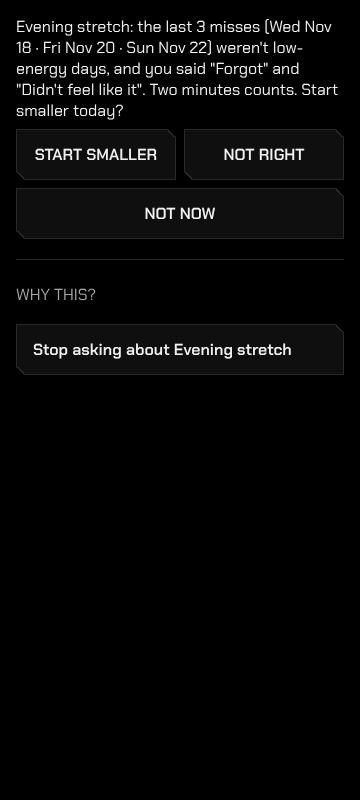
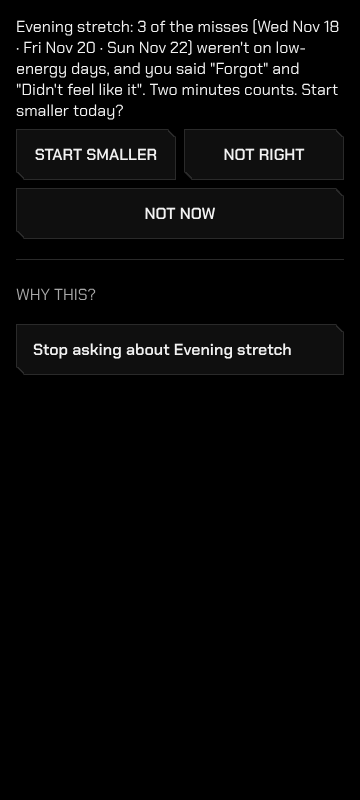
GRAYSON-CHALLENGE-LADDER-001: #708 review fixes (never say more than the evidence, never twice a day)
- NAME counts only the days he answered ("3 of the 4 days you answered it").
- CHALLENGE says "3 of the misses", never "the last 3"; after an answer it waits for a new forgot / didn't-feel
  miss, and only challenges with a new miss in between count toward EXAMINE.
- "Stop asking" quiets the whole ladder for the rest of that lived day; UNDO restores it.
- CHANGE THE PLAN restarts counting like NOT RIGHT and EXAMINE; EXAMINE says two quiet weeks, not "stop asking".
- The answer note frees its quiet-line slot after 8 s; history copy for challenge answers; 320/360/412 px checks.
- Merged master (WORK_DUE quiet line and work-record settings beside the ladder).

Claude-Session: https://claude.ai/code/session_01UR9w2nuSV6oWAKV5Wc8D8r

Changed region(s): [[0.0306, 0.0, 0.9472, 0.0938]]

diff --git a/src/domain/habitLadder.ts b/src/domain/habitLadder.ts
@@ -66,9 +66,10 @@ const isReason = (a: LadderAnswerValue): a is LadderReason => (LADDER_REASONS as
 export function deriveHabitLadder(habit: LadderHabit, answers: readonly LadderAnswer[], today: string): LadderLine | null {
   const mine = answers.filter((a) => a.habitId === habit.id);
   const recent = (days: number) => mine.filter((a) => within(a.date, today, days));
-  // NOT RIGHT goes back to the first step and is quiet for 14 days. So is a finished EXAMINE, and CHANGE THE PLAN.
+  // NOT RIGHT goes back to the first step and is quiet for 14 days. So is a finished EXAMINE, and CHANGE THE PLAN; all
+  // three restart the counting, so misses under the old plan never carry over.
   if (recent(LADDER.QUIET_DAYS).some((a) => a.answer === "NOT_RIGHT" || a.stage === "EXAMINE" || a.answer === "CHANGE_PLAN")) return null;
-  const since = [...mine].filter((a) => a.answer === "NOT_RIGHT" || a.stage === "EXAMINE").map((a) => a.date).sort().at(-1);
+  const since = [...mine].filter((a) => a.answer === "NOT_RIGHT" || a.answer === "CHANGE_PLAN" || a.stage === "EXAMINE").map((a) => a.date).sort().at(-1);
   const counted = (d: LadderDay) => within(d.date, today, LADDER.WINDOW_DAYS) && (!since || d.date > since);
   const misses = habit.history.filter((d) => d.applies && d.answer === "NOT_DONE" && counted(d)).map((d) => d.date).sort();
   if (!misses.length) return null;
@@ -78,17 +79,20 @@ export function deriveHabitLadder(habit: LadderHabit, answers: readonly LadderAn
   const explained = misses.filter((m) => reasonOf.has(m));
   const answeredSince = (stage: LadderStage) => mine.filter((a) => a.stage === stage && (!since || a.date > since) && within(a.date, today, LADDER.WINDOW_DAYS));
   const named = answeredSince("NAME").filter((a) => a.answer === "RIGHT");
-  const challenges = answeredSince("CHALLENGE").filter((a) => a.answer !== "LATER");
+  const challenges = answeredSince("CHALLENGE").filter((a) => a.answer !== "LATER").map((a) => a.date).sort();
   const name = habit.name;
   const evidence = { label: "Misses", value: misses.map(weekday).join(" · ") };
   const why = (rule: string, extra: { label: string; value: string }[] = []): WhyTrace => ({ rule, facts: [{ label: "Habit", value: name }, evidence, ...extra] });
   const base = { habitId: habit.id, habitName: name, misses };
 
-  // 4. EXAMINE: enough misses, or a challenge twice without change. Delta stops asking.
-  if (misses.length >= LADDER.EXAMINE_MISSES || challenges.length >= LADDER.EXAMINE_AFTER_CHALLENGES) {
+  // #708 review: a challenge answer counts toward EXAMINE only when a new miss came after the one before it, so
+  // agreeing twice to the same evidence never escalates.
+  const challengesWithNewMisses = challenges.filter((c, i) => i === 0 || misses.some((m) => m > challenges[i - 1]! && m <= c)).length;
+  // 4. EXAMINE: enough misses, or a challenge answered twice with new misses in between.
+  if (misses.length >= LADDER.EXAMINE_MISSES || challengesWithNewMisses >= LADDER.EXAMINE_AFTER_CHALLENGES) {
     return { ...base, stage: "EXAMINE",
-      text: `${name} didn't happen ${misses.length} times in 4 weeks. That points to the plan. Change the days, make it smaller, pause it, or keep it as it is. Delta will stop asking about it either way.`,
-      why: why(`${LADDER.EXAMINE_MISSES} or more misses in ${LADDER.WINDOW_DAYS} days, or a challenge answered twice: examine the plan, then stop asking.`) };
+      text: `${name} didn't happen ${misses.length} times in 4 weeks. That points to the plan. Change the days, make it smaller, pause it, or keep it as it is. Delta won't ask about it for two weeks either way.`,
+      why: why(`${LADDER.EXAMINE_MISSES} or more misses in ${LADDER.WINDOW_DAYS} days, or a challenge answered twice: examine the plan, then two quiet weeks.`) };
   }
   const due = habit.history.filter((d) => d.applies && d.answer !== "UNRECORDED" && counted(d)).length;
   const counts = new Map<LadderReason, number>();
@@ -100,11 +104,14 @@ export function deriveHabitLadder(habit: LadderHabit, answers: readonly LadderAn
   // feeling like it on days that weren't low-capacity. Never for shift, tiredness or the plan.
   const avoided = explained.filter((m) => AVOIDANCE.has(reasonOf.get(m)!) && !missDay.get(m)?.lowCapacity);
   const constrained = explained.length - avoided.length;
-  if (named.length && avoided.length >= LADDER.CHALLENGE_AVOIDANCE && avoided.length > constrained) {
+  // #708 review: after he answers a challenge, it waits for a new forgot / didn't-feel miss before it can show again.
+  const lastChallenge = challenges.at(-1);
+  const fresh = !lastChallenge || avoided.some((m) => m > lastChallenge);
+  if (named.length && fresh && avoided.length >= LADDER.CHALLENGE_AVOIDANCE && avoided.length > constrained) {
     const last = avoided.slice(-3);
     const said = [...new Set(last.map((m) => `"${LADDER_REASON_LABEL[reasonOf.get(m)!]}"`))].join(" and ");
     return { ...base, stage: "CHALLENGE",
-      text: `${name}: the last ${last.length} misses (${last.map(weekday).join(" · ")}) weren't low-energy days, and you said ${said}. Two minutes counts. Start smaller today?`,
+      text: `${name}: ${last.length} of the misses (${last.map(weekday).join(" · ")}) weren't on low-energy days, and you said ${said}. Two minutes counts. Start smaller today?`,
       why: why(`You agreed with the pattern, and ${LADDER.CHALLENGE_AVOIDANCE} or more misses were "forgot" or "didn't feel like it" on days that weren't low-energy. Never used for shift, tiredness or the plan.`, reasonFacts) };
   }
   // 2. NAME: three misses and two answers. Asked once; RIGHT keeps it, CHANGE THE PLAN and NOT RIGHT quiet it.
@@ -112,7 +119,7 @@ export function deriveHabitLadder(habit: LadderHabit, answers: readonly LadderAn
     const work = misses.filter((m) => missDay.get(m)?.work === "WORK").length;
     const where = work >= 2 && work === misses.length ? ` All ${work} were work days.` : work >= 2 ? ` ${work} were work days.` : "";
     return { ...base, stage: "NAME",
-      text: `${name} didn't happen ${misses.length} of the last ${due} days it was due.${where} Your answers point to: ${LADDER_PATTERN[top[0]]}.`,
+      text: `${name} didn't happen ${misses.length} of the ${due} days you answered it.${where} Your answers point to: ${LADDER_PATTERN[top[0]]}.`,
       why: why(`${LADDER.NAME_MISSES} or more misses in ${LADDER.WINDOW_DAYS} days, with ${LADDER.NAME_ANSWERS} or more of your answers. Named from what you said.`, reasonFacts) };
   }
   // 1. ASK: two misses in 14 days; asks about the latest one he hasn't explained, only if it's recent.

diff --git a/tests/habitLadder.test.ts b/tests/habitLadder.test.ts
@@ -68,17 +68,25 @@ describe("EXAMINE and quiet", () => {
   it("six misses in 28 days examines the plan", () => {
     const line = deriveHabitLadder(habit([20, 16, 12, 9, 5, 2]), [], TODAY)!;
     expect(line.stage).toBe("EXAMINE");
-    expect(line.text).toContain("Delta will stop asking about it either way.");
+    expect(line.text).toContain("Delta won't ask about it for two weeks either way.");
   });
-  it("a challenge answered twice examines the plan", () => {
-    const answers = [ask(9, "FORGOT"), ask(7, "DIDNT_FEEL"), ask(5, "FORGOT"), reply("NAME", "RIGHT", 5), reply("CHALLENGE", "START_SMALLER", 4), reply("CHALLENGE", "START_SMALLER", 3)];
-    expect(deriveHabitLadder(habit([9, 7, 5]), answers, TODAY)!.stage).toBe("EXAMINE");
+  it("a challenge answered twice, with a new miss in between, examines the plan", () => {
+    const answers = [ask(9, "FORGOT"), ask(7, "DIDNT_FEEL"), ask(5, "FORGOT"), reply("NAME", "RIGHT", 5), reply("CHALLENGE", "START_SMALLER", 4), ask(3, "FORGOT"), reply("CHALLENGE", "START_SMALLER", 2)];
+    expect(deriveHabitLadder(habit([9, 7, 5, 3]), answers, TODAY)!.stage).toBe("EXAMINE");
+  });
+  it("#708 review: after START SMALLER the challenge waits for a new forgot / didn't-feel miss, and never escalates on the same evidence", () => {
+    const base = [ask(9, "FORGOT"), ask(7, "DIDNT_FEEL"), ask(5, "FORGOT"), reply("NAME", "RIGHT", 5), reply("CHALLENGE", "START_SMALLER", 4)];
+    expect(deriveHabitLadder(habit([9, 7, 5]), base, TODAY)).toBeNull();
+    expect(deriveHabitLadder(habit([9, 7, 5, 2]), [...base, ask(2, "SHIFT")], TODAY)).toBeNull(); // a shift miss isn't one
+    expect(deriveHabitLadder(habit([9, 7, 5, 2]), [...base, ask(2, "FORGOT")], TODAY)!.stage).toBe("CHALLENGE");
   });
   it("after EXAMINE, NOT RIGHT or CHANGE THE PLAN: quiet 14 days, then counting starts fresh", () => {
     const many = habit([20, 18, 16, 15, 13, 2]);
     expect(deriveHabitLadder(many, [reply("EXAMINE", "KEEP", 10)], TODAY)).toBeNull();
     expect(deriveHabitLadder(habit([5, 2]), [reply("NAME", "NOT_RIGHT", 3)], TODAY)).toBeNull();
     expect(deriveHabitLadder(habit([5, 2]), [reply("NAME", "CHANGE_PLAN", 3)], TODAY)).toBeNull();
+    // #708 review: CHANGE THE PLAN restarts the counting too, so old-plan misses never carry over into EXAMINE.
+    expect(deriveHabitLadder(habit([25, 23, 21, 19, 17, 5, 2]), [reply("NAME", "CHANGE_PLAN", 16)], TODAY)!.stage).toBe("ASK");
     // 15 days after EXAMINE, only misses since then count: two recent misses means ASK, not EXAMINE again.
     expect(deriveHabitLadder(habit([25, 23, 21, 19, 17, 5, 2]), [reply("EXAMINE", "KEEP", 16)], TODAY)!.stage).toBe("ASK");
   });
@@ -95,5 +103,21 @@ describe("one line a day", () => {
   it("is deterministic", () => {
     const input = { habits: two, answers: [], today: TODAY, todayLowCapacity: false, off: new Set<string>() };
     expect(deriveLadderLine(input)).toEqual(deriveLadderLine(input));
+  });
+});
+
+describe("#708 review: lines never say more than the evidence", () => {
+  it("NAME counts only the days he answered, and says so", () => {
+    const unanswered = Array.from({ length: 28 }, (_, i) => i).filter((b) => ![9, 7, 5, 3].includes(b));
+    const line = deriveHabitLadder(habit([9, 7, 5], { unanswered }), [ask(9, "PLAN"), ask(7, "PLAN")], TODAY)!;
+    expect(line.stage).toBe("NAME");
+    expect(line.text).toContain("didn't happen 3 of the 4 days you answered it.");
+  });
+  it("CHALLENGE never calls them 'the last' misses when another miss sits between", () => {
+    const answers = [ask(10, "FORGOT"), ask(8, "FORGOT"), ask(6, "SHIFT"), ask(4, "FORGOT"), reply("NAME", "RIGHT", 4)];
+    const line = deriveHabitLadder(habit([10, 8, 6, 4]), answers, TODAY)!;
+    expect(line.stage).toBe("CHALLENGE");
+    expect(line.text).toContain("3 of the misses (");
+    expect(line.text).not.toMatch(/the last \d+ misses/);
   });
 });

diff --git a/src/application/habitLadder.ts b/src/application/habitLadder.ts
@@ -33,16 +33,36 @@ export async function getLadderAnswers(): Promise<LadderAnswer[]> {
 
 /** "Stop asking about this habit": per habit, on this phone, travels with the backup. Turning the line off for all is TODAY's quiet-line switch. */
 export const HABIT_LADDER_KEY = "beyond.habitLadder.v1";
-export function readLadderOff(): Set<string> {
+interface LadderStore { off: Set<string>; quietDate: string | null }
+function readStore(): LadderStore {
   try {
-    const raw = JSON.parse(localStorage.getItem(HABIT_LADDER_KEY) ?? "null") as { off?: unknown } | null;
-    return new Set(Array.isArray(raw?.off) ? raw.off.filter((id): id is string => typeof id === "string") : []);
-  } catch { return new Set(); }
+    const raw = JSON.parse(localStorage.getItem(HABIT_LADDER_KEY) ?? "null") as { off?: unknown; quietDate?: unknown } | null;
+    return {
+      off: new Set(Array.isArray(raw?.off) ? raw.off.filter((id): id is string => typeof id === "string") : []),
+      quietDate: typeof raw?.quietDate === "string" && /^\d{4}-\d{2}-\d{2}$/.test(raw.quietDate) ? raw.quietDate : null,
+    };
+  } catch { return { off: new Set(), quietDate: null }; }
 }
+function writeStore(store: LadderStore): void {
+  localStorage.setItem(HABIT_LADDER_KEY, JSON.stringify({ off: [...store.off].sort(), ...(store.quietDate ? { quietDate: store.quietDate } : {}) }));
+}
+export function readLadderOff(): Set<string> { return readStore().off; }
+/** Settings' ASK AGAIN (and tests): turns one habit back on. */
 export function setLadderHabitOff(habitId: string, off: boolean): void {
-  const next = readLadderOff();
-  if (off) next.add(habitId); else next.delete(habitId);
-  localStorage.setItem(HABIT_LADDER_KEY, JSON.stringify({ off: [...next].sort() }));
+  const store = readStore();
+  if (off) store.off.add(habitId); else store.off.delete(habitId);
+  writeStore(store);
+}
+/**
+ * "Stop asking about <habit>" on TODAY: that habit is off, and (#708 review) no other habit's line shows for the rest
+ * of this lived day, because he has just said stop. UNDO (`askAgainAbout`) turns both back.
+ */
+export async function stopAskingAbout(habitId: string, now = new Date()): Promise<void> {
+  const date = (await getHabitWorkspace(now)).date;
+  const store = readStore(); store.off.add(habitId); store.quietDate = date; writeStore(store);
+}
+export function askAgainAbout(habitId: string): void {
+  const store = readStore(); store.off.delete(habitId); store.quietDate = null; writeStore(store);
 }
 
 /** Low capacity for a lived day: his last check-in that day put energy at 2 or below, or the day's guidance was to recover. */
@@ -50,7 +70,7 @@ const LOW_KINDS = new Set(["RECOVER", "STABILIZE"]);
 
 export async function getHabitLadderLine(now = new Date()): Promise<LadderLine | null> {
   const workspace = await getHabitWorkspace(now);
-  if (!workspace.habits.length) return null;
+  if (!workspace.habits.length || readStore().quietDate === workspace.date) return null;
   const dayIds = [...new Set(workspace.habits.flatMap((h) => h.history.flatMap((d) => d.dayId ? [d.dayId] : [])))];
   const [checkIns, recommendations, answers] = await Promise.all([
     getEffectiveCheckIns(dayIds), db.recommendations.where("beyondDayId").anyOf(dayIds).toArray(), getLadderAnswers(),

diff --git a/tests/browser/HabitLadder.test.tsx b/tests/browser/HabitLadder.test.tsx
@@ -5,7 +5,7 @@ import axe from "axe-core";
 import { HabitLadderLine } from "../../src/ui/screens/today/HabitLadderLine";
 import { TodayQuietSettings } from "../../src/ui/screens/more/TodayQuietSettings";
 import { createHabit, setHabitAnswer } from "../../src/application/habitCommands";
-import { getLadderAnswers, readLadderOff } from "../../src/application/habitLadder";
+import { getLadderAnswers, getHabitLadderLine, readLadderOff } from "../../src/application/habitLadder";
 import { startDay, submitCheckIn } from "../../src/application/commands";
 import { mostRecentBoundaryAtOrBefore } from "../../src/engine/dayRollover";
 import { formatLocalDate } from "../../src/engine/scheduledContext";
@@ -39,8 +39,11 @@ it("ASK after two misses: one tap saves what got in the way, then the line is do
   const screen = await render(<HabitLadderLine now={new Date()} />);
   const line = screen.getByRole("region", { name: "Habit check-in" });
   await expect.element(line.getByText(/^Stretch didn't happen .+\. What got in the way\?$/)).toBeVisible();
-  fits(line.element());
-  expect((await axe.run(line.element())).violations).toEqual([]);
+  for (const width of [320, 360, 412]) {
+    await page.viewport(width, 800);
+    fits(line.element());
+    expect((await axe.run(line.element())).violations).toEqual([]);
+  }
   await line.getByRole("button", { name: "Forgot", exact: true }).click();
   await expect.element(screen.getByText("Saved. Delta won't ask again today.")).toBeVisible();
   expect(await getLadderAnswers()).toMatchObject([{ habitId: habit.id, stage: "ASK", answer: "FORGOT", missDate: formatLocalDate(dayBack(2)) }]);
@@ -93,4 +96,23 @@ it("on TODAY it is one of the quiet lines, and his TODAY switch turns it off for
   await new Promise((r) => setTimeout(r, 750)); // the line loads on its own; give it time to (not) appear
   expect(screen.getByRole("region", { name: "Habit check-in" }).elements()).toHaveLength(0);
   await expect.element(screen.getByRole("group", { name: "Quiet lines" })).toBeInTheDocument();
+});
+
+it("#708 review: after 'Stop asking' no other habit's line shows that day; UNDO brings the ladder back", async () => {
+  const a = await createHabit({ name: "Read", kind: "ANY_DAY" });
+  const b = await createHabit({ name: "Stretch", kind: "ANY_DAY" });
+  for (const k of [5, 4, 2]) {
+    const d = await startDay(dayBack(k).toISOString());
+    await setHabitAnswer(a.id, "NOT_DONE", d.id);
+    if (k !== 5) await setHabitAnswer(b.id, "NOT_DONE", d.id);
+  }
+  const today = await startDay(dayBack(0).toISOString());
+  await submitCheckIn(today.id, { energy: 4, stress: 2, mood: 3, soreness: 1, alcoholUrge: 0 });
+  const screen = await render(<HabitLadderLine now={new Date()} />);
+  await screen.getByRole("button", { name: "Stop asking about Read" }).click();
+  await expect.element(screen.getByText(/^Delta won't ask about Read\./)).toBeVisible();
+  expect(await getHabitLadderLine()).toBeNull(); // Stretch qualifies too, but not today
+  expect(screen.getByRole("button", { name: "Stop asking about Stretch" }).elements()).toHaveLength(0);
+  await screen.getByRole("button", { name: "UNDO" }).click();
+  await expect.poll(async () => (await getHabitLadderLine())?.habitId).toBe(a.id);
 });

diff --git a/src/ui/screens/today/HabitLadderLine.tsx b/src/ui/screens/today/HabitLadderLine.tsx
@@ -2,7 +2,7 @@ import { useEffect, useRef, useState } from "react";
 import { useReportPresence } from "../../components/usePresence";
 import { WhyTraceDisclosure } from "../../components/WhyTrace";
 import { describeError } from "../../errorMessage";
-import { answerLadder, getHabitLadderLine, setLadderHabitOff } from "../../../application/habitLadder";
+import { answerLadder, askAgainAbout, getHabitLadderLine, stopAskingAbout } from "../../../application/habitLadder";
 import { LADDER_REASONS, LADDER_REASON_LABEL, type LadderAnswerValue, type LadderLine } from "../../../domain/habitLadder";
 import "./habitLadder.css";
 
@@ -25,6 +25,9 @@ export function HabitLadderLine({ now, tucked = false, onPresence, onOpenHabits 
   const minute = Math.floor(now.getTime() / 600_000);
   const load = () => getHabitLadderLine().then(setLine, () => setLine(null));
   useEffect(() => { void load(); }, [minute]);
+  // #708 review: the "what he answered" note gives its quiet-line slot back after a few seconds (UNDO for a stopped
+  // habit stays in MORE · Settings · TODAY after that).
+  useEffect(() => { if (!notice) return; const t = window.setTimeout(() => setNotice(null), 8_000); return () => window.clearTimeout(t); }, [notice]);
   useReportPresence(line !== null || notice !== null, onPresence);
   async function run(action: () => Promise<unknown>, after: string, undoOff?: string) {
     if (working.current) return;
@@ -39,7 +42,7 @@ export function HabitLadderLine({ now, tucked = false, onPresence, onOpenHabits 
   return <section className="habit-ladder" aria-label="Habit check-in" data-habit-ladder={line?.stage ?? "DONE"}>
     {error && <p role="alert">{error}</p>}
     {notice && <p role="status" className="habit-ladder__notice">{notice.text}
-      {notice.undoOff && <> <button type="button" className="btn-secondary" disabled={busy} onClick={() => void run(async () => { setLadderHabitOff(notice.undoOff!, false); }, "Delta will ask about it again.")}>UNDO</button></>}</p>}
+      {notice.undoOff && <> <button type="button" className="btn-secondary" disabled={busy} onClick={() => void run(async () => { askAgainAbout(notice.undoOff!); }, "Delta will ask about it again.")}>UNDO</button></>}</p>}
     {line && <>
       <p className="habit-ladder__text">{line.text}</p>
       {line.stage === "ASK" && <div className="habit-ladder__chips" role="group" aria-label="What got in the way?">
@@ -53,7 +56,7 @@ export function HabitLadderLine({ now, tucked = false, onPresence, onOpenHabits 
       </div>
       <WhyTraceDisclosure why={line.why} />
       <button type="button" className="btn-secondary habit-ladder__off" disabled={busy}
-        onClick={() => void run(async () => { setLadderHabitOff(line.habitId, true); }, `Delta won't ask about ${line.habitName}. Turn it back on in MORE · Settings · TODAY.`, line.habitId)}>
+        onClick={() => void run(() => stopAskingAbout(line.habitId), `Delta won't ask about ${line.habitName}. Turn it back on in MORE · Settings · TODAY.`, line.habitId)}>
         Stop asking about {line.habitName}
       </button>
     </>}

diff --git a/src/ui/screens/history/historyCopy.ts b/src/ui/screens/history/historyCopy.ts
@@ -167,7 +167,7 @@ export function describeEvent(event: DomainEvent, exerciseNames: Record<string, 
     case "LEARNING_RESPONDED":
       return `Delta's learning · ${({ KEEP: "kept", NARROW: "narrowed", NOT_TRUE: "marked not true", DROP: "dropped", UNDO: "answer undone" } as Record<string, string>)[String(p?.action)] ?? "answered"} · ${String(p?.statement ?? "Unreadable statement")}.`;
     case "HABIT_LADDER_ANSWERED":
-      return `Habit check-in · ${String(p?.habitName ?? "a habit")} · ${({ ASK: "what got in the way", NAME: "the pattern", CHALLENGE: "start smaller", EXAMINE: "the plan" } as Record<string, string>)[String(p?.stage)] ?? "answered"}: ${({ SHIFT: "shift or work ran over", TIRED: "too tired or recovering", FORGOT: "forgot", DIDNT_FEEL: "didn't feel like it", PLAN: "the plan doesn't fit", OTHER: "something else", RIGHT: "that's right", NOT_RIGHT: "not right", CHANGE_PLAN: "change the plan", START_SMALLER: "start smaller", KEEP: "keep it as it is", LATER: "later" } as Record<string, string>)[String(p?.answer)] ?? "answered"}.`;
+      return `Habit check-in · ${String(p?.habitName ?? "a habit")} · ${({ ASK: "what got in the way", NAME: "the pattern", CHALLENGE: "the challenge", EXAMINE: "the plan" } as Record<string, string>)[String(p?.stage)] ?? "answered"}: ${({ SHIFT: "shift or work ran over", TIRED: "too tired or recovering", FORGOT: "forgot", DIDNT_FEEL: "didn't feel like it", PLAN: "the plan doesn't fit", OTHER: "something else", RIGHT: "that's right", NOT_RIGHT: "not right", CHANGE_PLAN: "change the plan", START_SMALLER: "start smaller", KEEP: "keep it as it is", LATER: "later" } as Record<string, string>)[String(p?.answer)] ?? "answered"}.`;
     case "WEEKLY_REVIEW_SAVED":
       return `Weekly review ${p?.supersedes ? "revised" : "saved"} for ${String(p?.weekStart ?? "unknown week")}. Note: ${String(p?.note || "None")}. Focus: ${String((p?.focus as { text?: unknown } | null)?.text ?? "None chosen")}.`;
     case "CLEAN_DAY_LOGGED":

diff --git a/docs/agent/GRAYSON-CHALLENGE-LADDER-001.md b/docs/agent/GRAYSON-CHALLENGE-LADDER-001.md
@@ -26,20 +26,22 @@ These live in one place, `LADDER` in `src/domain/habitLadder.ts`.
   Shift or work ran over · Too tired or recovering · Forgot · Didn't feel like it · The plan doesn't fit ·
   Something else · NOT NOW.
 - **NAME:** 3 misses in 28 days and at least 2 answers. It names the most common answer as a problem with the plan or
-  the moment, never with him, and adds how many misses were work days. It is asked once. The replies are:
+  the moment, never with him, and adds how many misses were work days. It counts only days he answered ("3 of the 4 days you answered it"). It is asked once. The replies are:
   - THAT'S RIGHT;
   - NOT RIGHT (quiet for 14 days, and counting restarts);
-  - CHANGE THE PLAN (opens LIFE · Habits; quiet for 14 days).
+  - CHANGE THE PLAN (opens LIFE · Habits; quiet for 14 days, and counting restarts).
 - **CHALLENGE:** only after THAT'S RIGHT, and only when 3 or more misses were "Forgot" / "Didn't feel like it" on days
   that weren't low-energy, and those outnumber the other answers. It ends "Two minutes counts. Start smaller today?"
   The replies are START SMALLER, NOT RIGHT and NOT NOW. It never appears for shift, tiredness or plan answers.
-- **EXAMINE:** 6 misses in 28 days, or a challenge answered twice. It says the plan isn't working as set, and that
-  Delta will stop asking either way. The replies are CHANGE THE PLAN and KEEP IT AS IT IS. Either one is quiet for
+  After he answers it, it waits for a new "Forgot" / "Didn't feel like it" miss before it can show again. It says
+  "3 of the misses", never "the last 3", because other misses may sit between them.
+- **EXAMINE:** 6 misses in 28 days, or a challenge answered twice with a new miss in between. It says the plan isn't
+  working as set, and that Delta won't ask about it for two weeks either way. The replies are CHANGE THE PLAN and KEEP IT AS IT IS. Either one is quiet for
   14 days, and counting restarts afterwards.
 - **What a low-energy day is:** his last check-in that lived day had energy 2 or less, or the day's guidance was
   RECOVER or STABILIZE.
-- **Limits across all habits:** at most one ladder line a day; none once he has answered one today; none on a
-  low-energy day. When several habits qualify, the one with the most misses shows.
+- **Limits across all habits:** at most one ladder line a day; none once he has answered one or said "Stop asking"
+  today; none on a low-energy day. The note after an answer clears after 8 seconds. When several habits qualify, the one with the most misses shows.
 
 ## Off switches
 - **For all habits:** TODAY's quiet-line switch "Habit check-ins". The line is `HABIT_LADDER`, placed after REVIEW in

diff --git a/docs/decisions/GRAYSON-CHALLENGE-LADDER.md b/docs/decisions/GRAYSON-CHALLENGE-LADDER.md
@@ -11,10 +11,11 @@ these.
   - ASK (2 misses in 14 days);
   - NAME (3 misses in 28 days and 2 answers);
   - CHALLENGE (only after he agrees, and only for "forgot" / "didn't feel like it" on days that weren't low-energy);
-  - EXAMINE (6 misses, or a challenge answered twice), after which Delta stops asking.
+  - EXAMINE (6 misses, or a challenge answered twice with a new miss in between), then two quiet weeks.
+  - A challenge he has answered waits for a new forgot / didn't-feel miss before it can show again.
   - NOT RIGHT, CHANGE THE PLAN and EXAMINE's replies give 14 quiet days, and counting restarts.
 - **Calm:**
-  - one line a day at most;
+  - one line a day at most, and none for the rest of the day once he says "Stop asking";
   - none on a low-energy day;
   - it sits in the quiet-line budget;
   - never red and no streaks;
